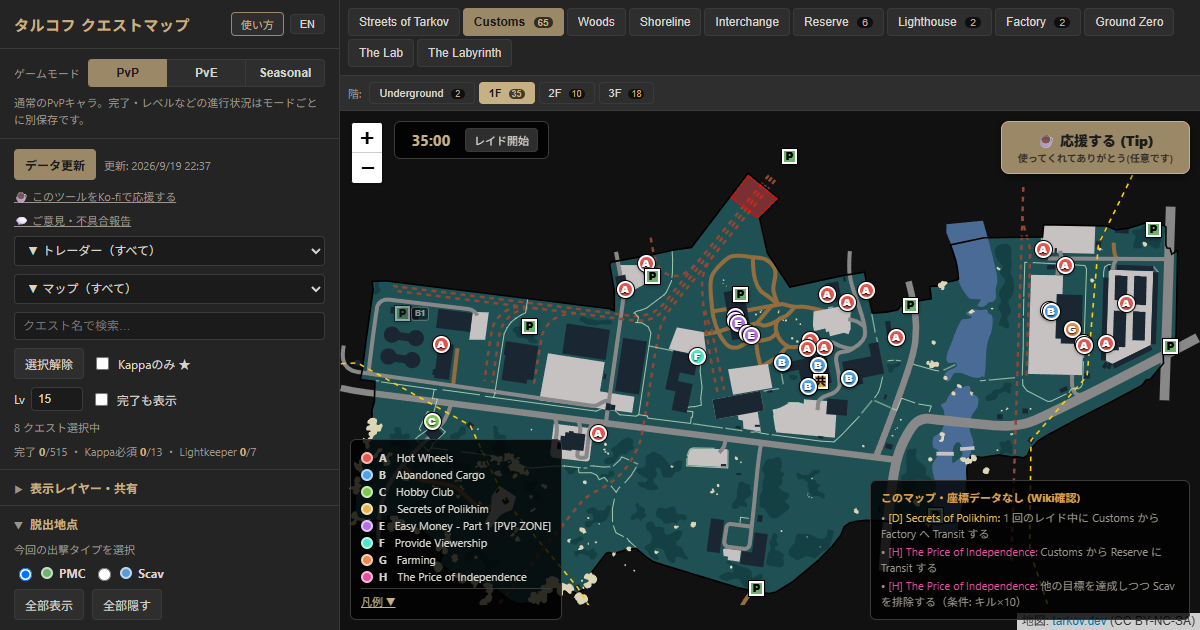
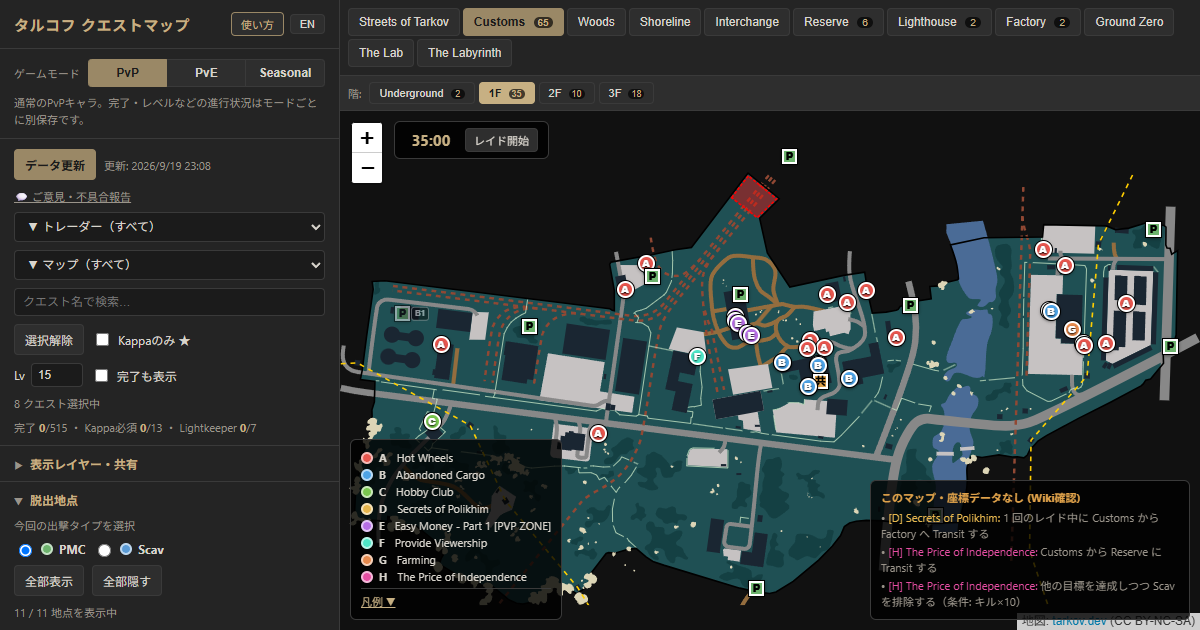
Hide the tip / Ko-fi UI until it is ready (SHOW_TIP flag) and refresh the preview image

Changed region(s): [[0.0, 0.3016, 0.2775, 0.9952], [0.8325, 0.181, 1.0, 0.3016], [0.1542, 0.2413, 0.185, 0.2714]]

diff --git a/index.html b/index.html
@@ -287,7 +287,7 @@
         <button id="refresh" class="primary" data-i18n="refresh">データ更新</button>
         <span id="datainfo" class="muted"></span>
       </div>
-      <div class="row">
+      <div class="row hidden" data-tip>
         <a href="https://ko-fi.com/tarkovquestmap" target="_blank" rel="noopener" class="muted" style="text-decoration:underline" data-i18n="supportLink">☕ このツールをKo-fiで応援する</a>
       </div>
       <div class="row">
@@ -407,7 +407,7 @@
     <div id="mapwrap">
       <button id="menuBtn" class="primary" data-i18n="menuBtn">☰ メニュー</button>
       <div id="map"></div>
-      <a id="supportBtn" href="https://ko-fi.com/tarkovquestmap" target="_blank" rel="noopener" data-i18n-title="supportBtnTitle">
+      <a id="supportBtn" class="hidden" data-tip href="https://ko-fi.com/tarkovquestmap" target="_blank" rel="noopener" data-i18n-title="supportBtnTitle">
         <span class="main" data-i18n="supportBtn">☕ Support</span>
         <span class="sub" data-i18n="supportBtnSub">Thanks for using this tool!</span>
       </a>
@@ -2814,6 +2814,11 @@ document.getElementById("lvlin").onchange = (e) => {
 document.getElementById("bright").oninput = (e) => { view.bright = parseFloat(e.target.value); applyView(); saveView(); };
 document.getElementById("contrast").oninput = (e) => { view.contrast = parseFloat(e.target.value); applyView(); saveView(); };
 document.getElementById("brightreset").onclick = () => { view = { bright:1, contrast:1 }; applyView(); saveView(); };
+// チップ(Ko-fi)の表示。寄付の受け取りが実装できるまで false（HTML側は data-tip + hidden で隠してある）。
+// 表示するときは true にする。README.md の「Support this project」も戻すこと。
+const SHOW_TIP = false;
+if(SHOW_TIP) document.querySelectorAll("[data-tip]").forEach(el => el.classList.remove("hidden"));
+
 // 使い方ダイアログ
 document.getElementById("helpBtn").onclick = () => {
   const dlg = document.getElementById("helpdlg");

diff --git a/README.md b/README.md
@@ -20,11 +20,6 @@ button top-left to switch language.
 - Works offline-ish: caches data locally, falls back to a bundled snapshot if
   tarkov.dev's API is down
 
-## Support this project
-
-If this tool saves you time, a tip is appreciated but never required — the tool stays free
-either way. **[☕ Support on Ko-fi](https://ko-fi.com/tarkovquestmap)**
-
 ## Credits & license
 
 - Quest/extract/map data: [tarkov.dev](https://tarkov.dev) / `json.tarkov.dev` (community, free)
